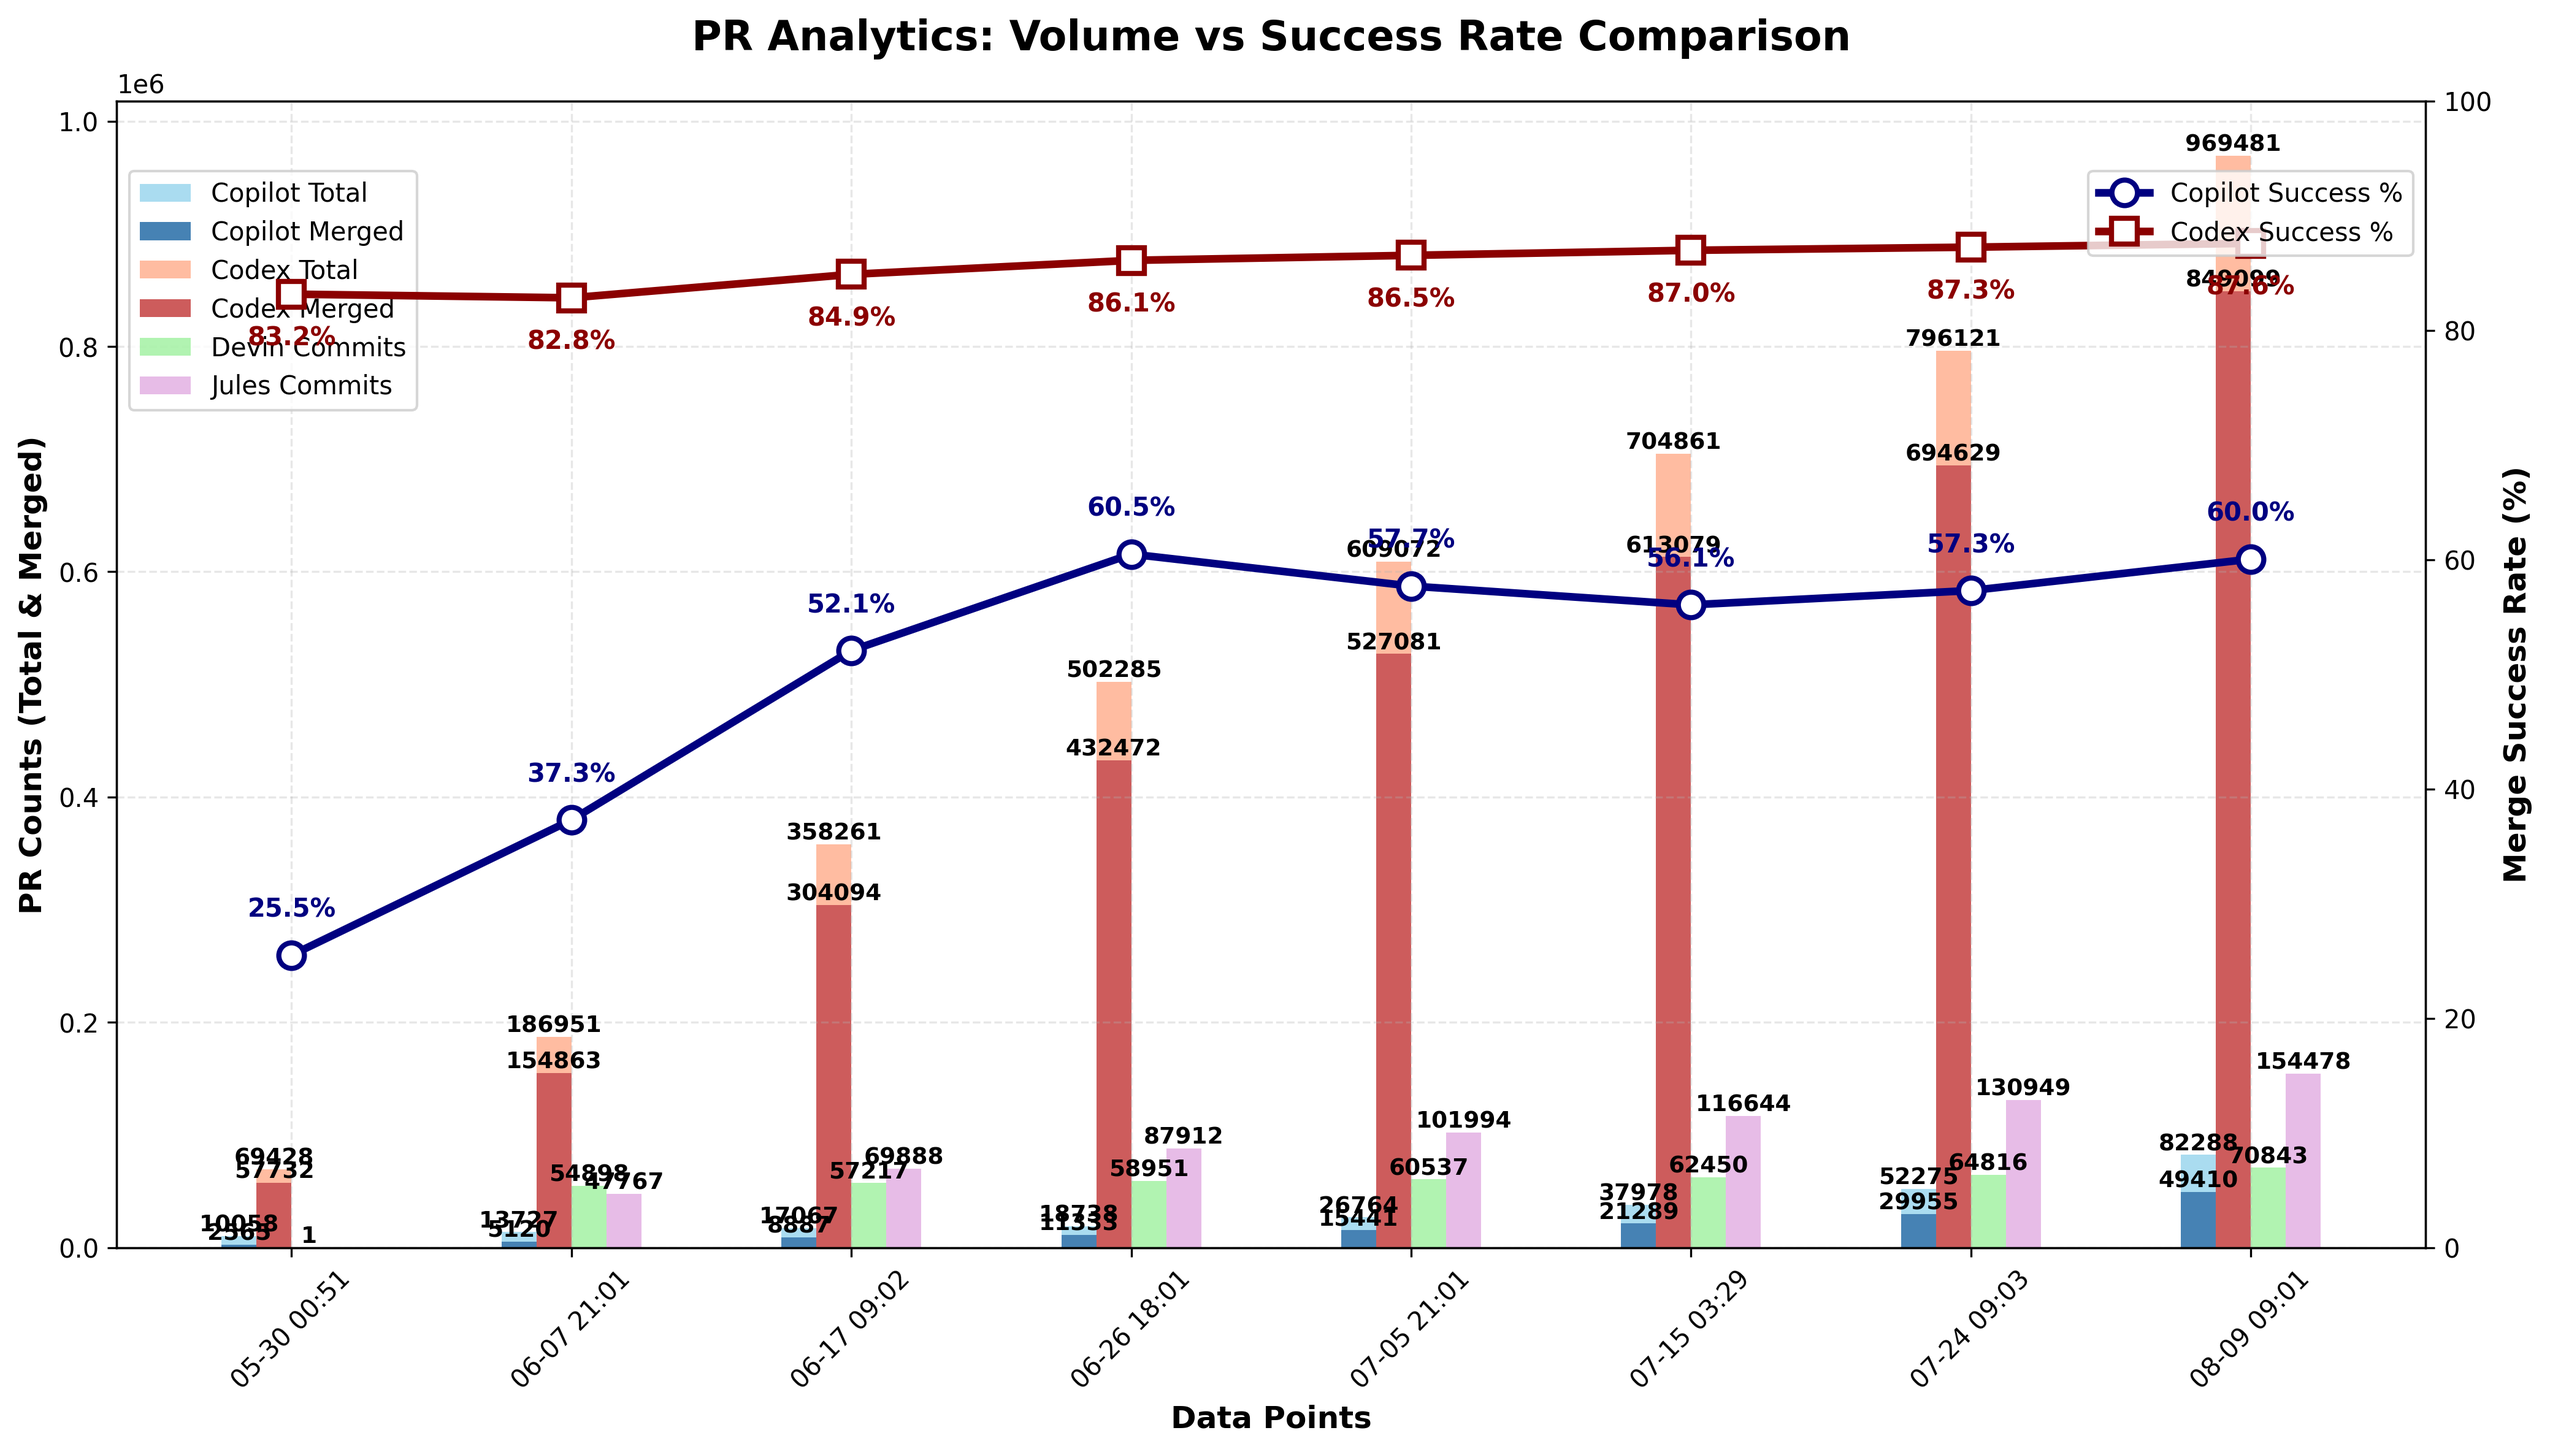
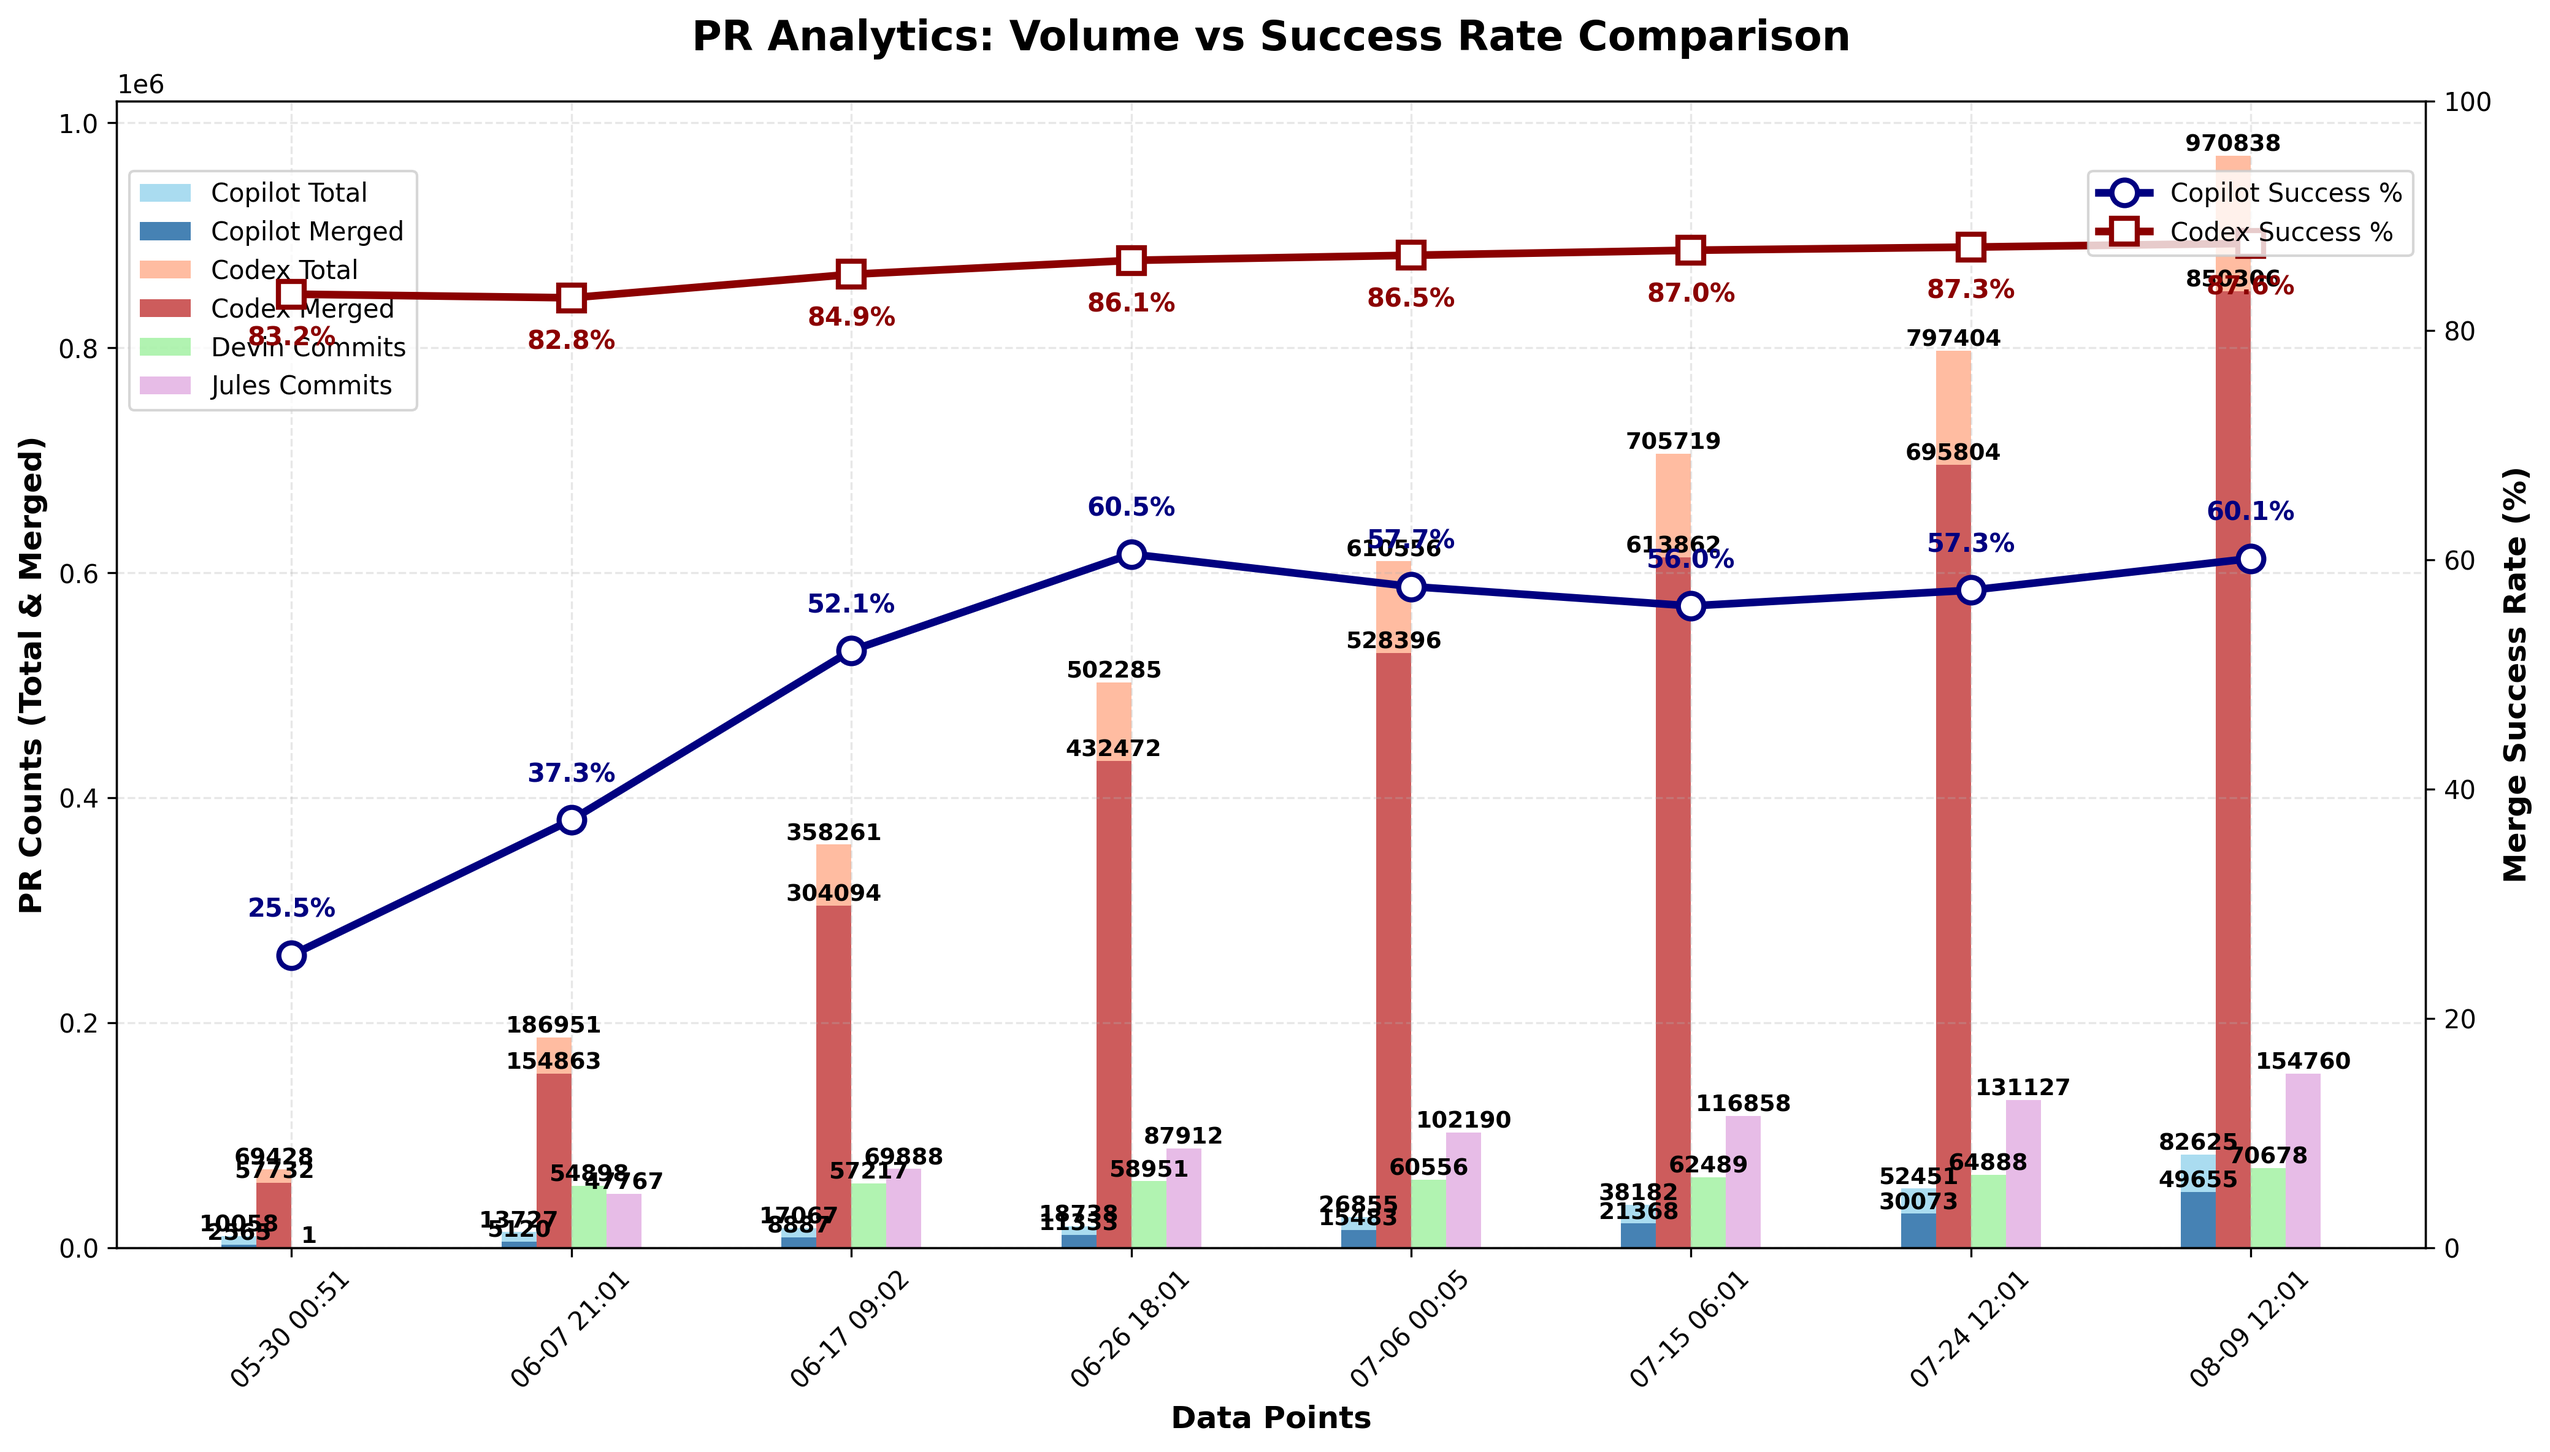
chore: update PR‑approval chart

diff --git a/docs/index.html b/docs/index.html
@@ -564,6 +564,7 @@
                         <td>N/A</td>
                         <td>N/A</td>
                         <td>N/A</td>
+                        <td>N/A</td>
                     </tr>
                     <tr>
                         <td>Codex</td>
@@ -1086,27 +1087,28 @@
                         <td>N/A</td>
                         <td>N/A</td>
                         <td>N/A</td>
+                        <td>N/A</td>
                     </tr>
                 <tr>
                         <td>Devin</td>
                         <td>N/A</td>
                         <td>N/A</td>
                         <td>N/A</td>
-                        <td>70,843</td>
+                        <td>70,678</td>
                     </tr>
                     <tr>
                         <td>Jules</td>
                         <td>N/A</td>
                         <td>N/A</td>
                         <td>N/A</td>
-                        <td>154,478</td>
+                        <td>154,760</td>
                     </tr>
                     </tbody>
             </table>
         </section>
 
         <footer>
-            <p>Last updated: <span id="last-updated">August 09, 2025 09:01 UTC</span></p>
+            <p>Last updated: <span id="last-updated">August 09, 2025 12:02 UTC</span></p>
             <p><a href="https://github.com/aavetis/ai-pr-watcher">View on GitHub</a></p>
         </footer>
     </div>

diff --git a/README.md b/README.md
@@ -19,7 +19,7 @@ Explore the GitHub search queries used:
 
 | Service | Total PRs | Merged PRs | Merge Rate | Total Commits |
 | ------- | --------- | ---------- | ---------- | ------------- |
-| Copilot | 82,288 | 49,410 | 60.05% | N/A           |
-| Codex   | 969,481 | 849,099 | 87.58% | N/A           |
-| Devin   | N/A       | N/A        | N/A        | 70,843 |
-| Jules   | N/A       | N/A        | N/A        | 154,478 |
+| Copilot | 82,625 | 49,655 | 60.10% | N/A           |
+| Codex   | 970,838 | 850,306 | 87.58% | N/A           |
+| Devin   | N/A       | N/A        | N/A        | 70,678 |
+| Jules   | N/A       | N/A        | N/A        | 154,760 |
